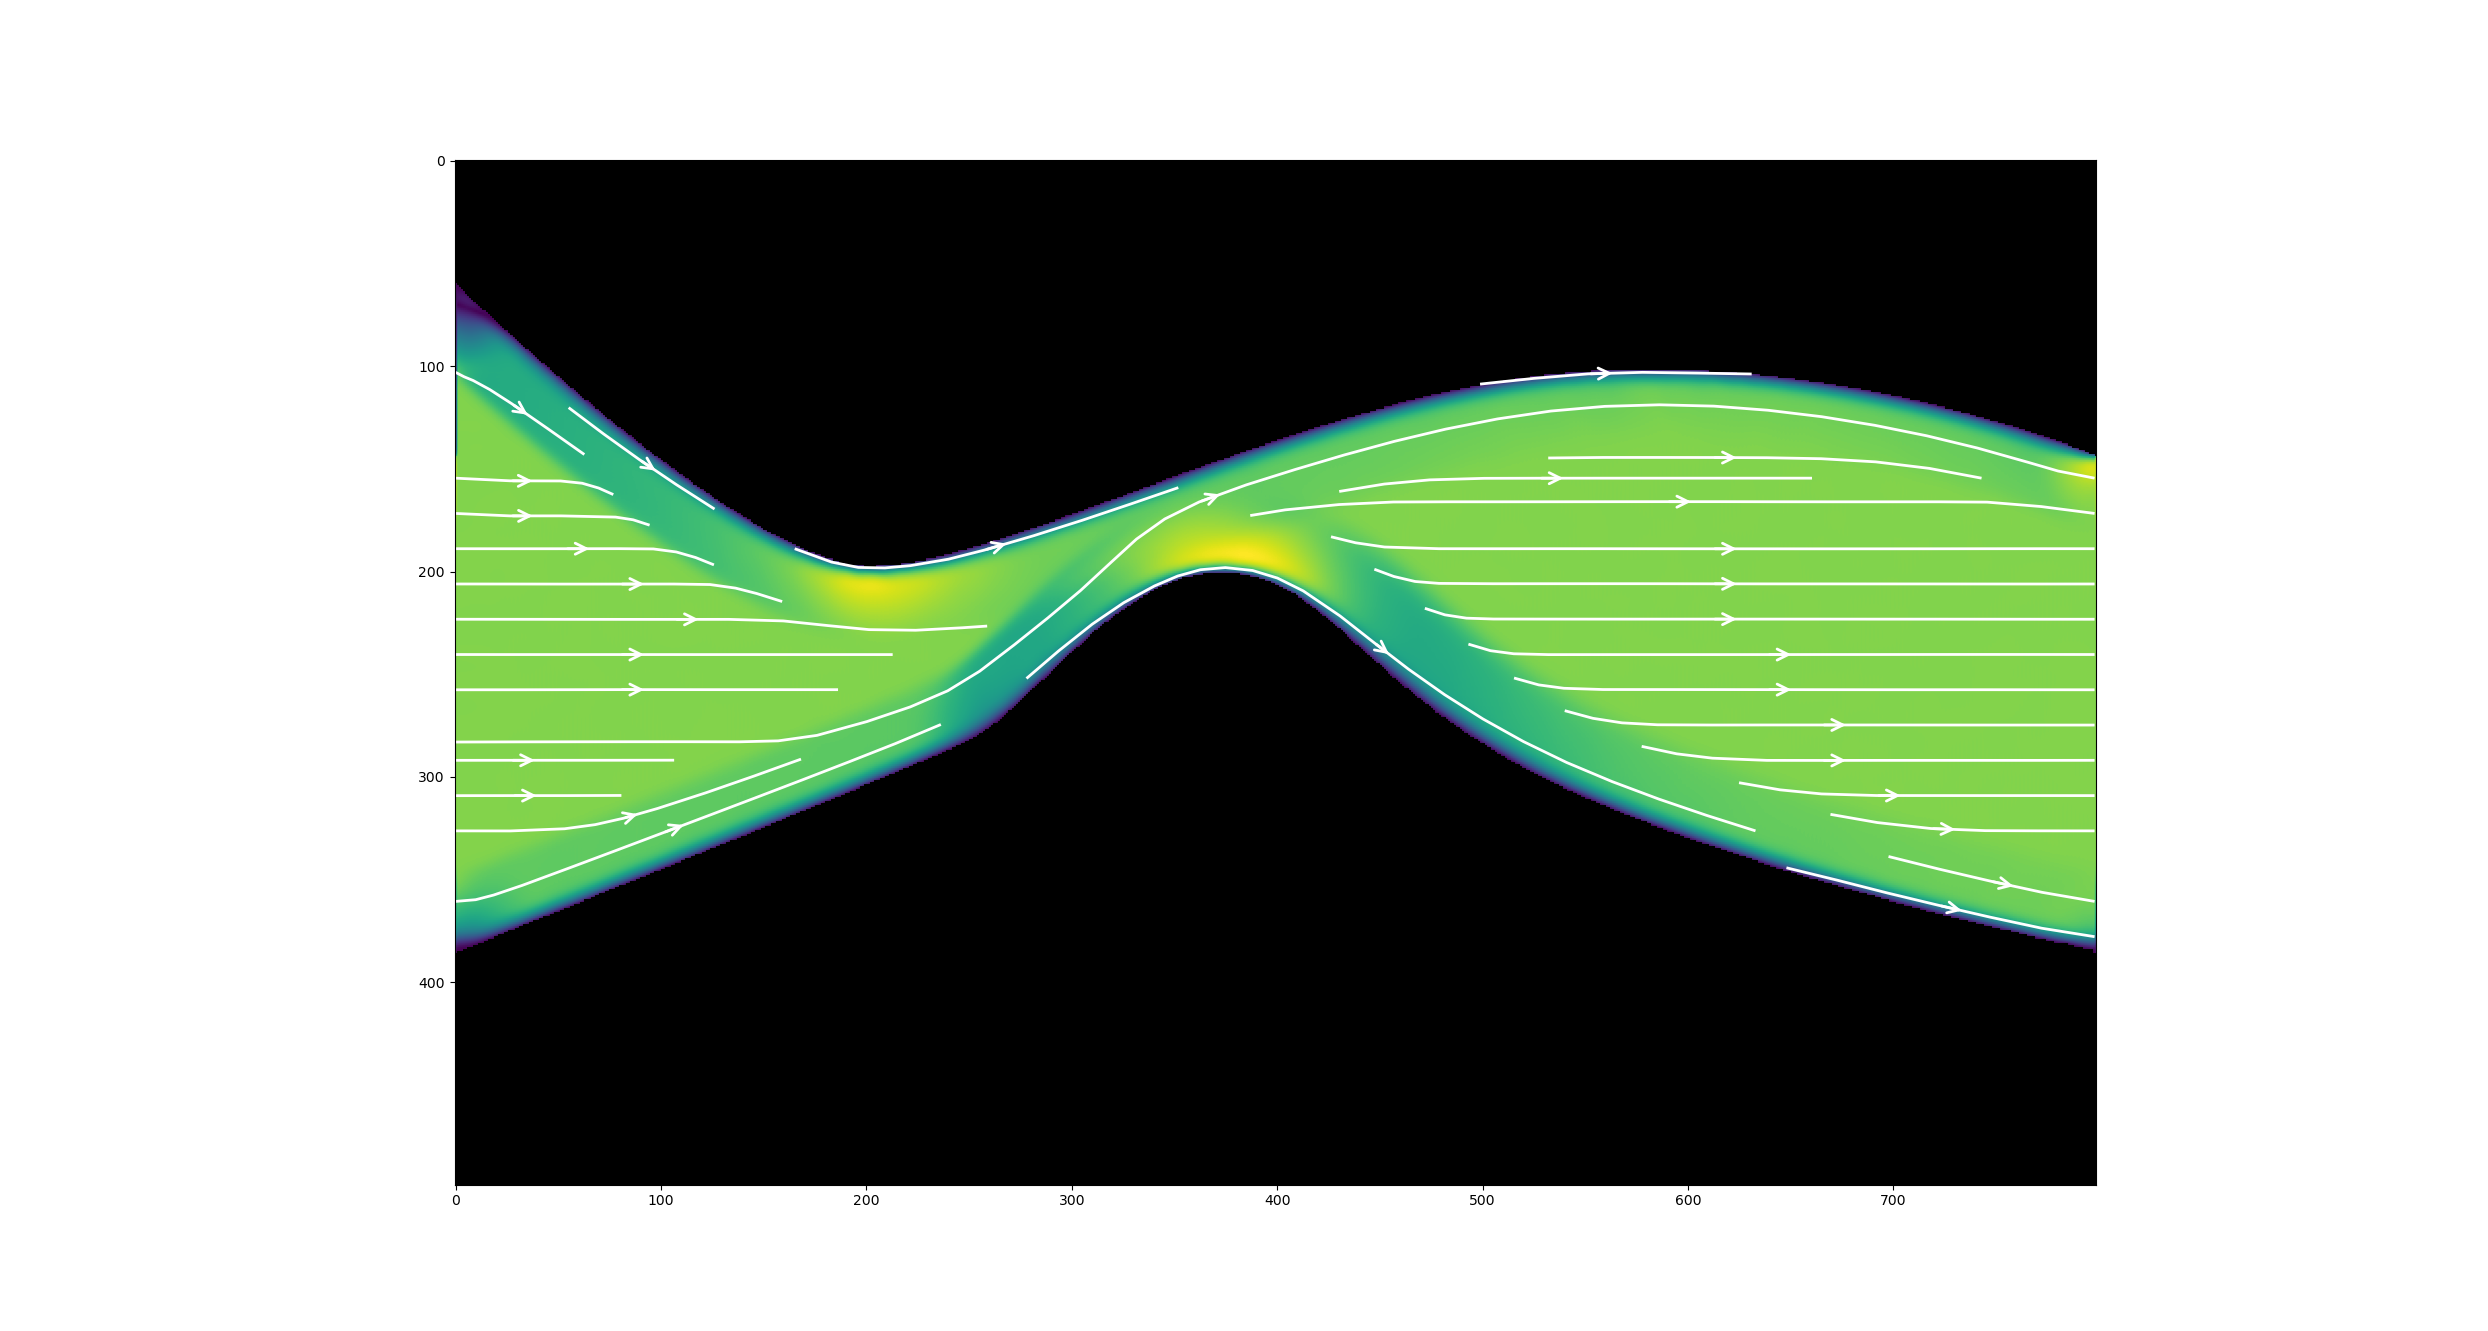
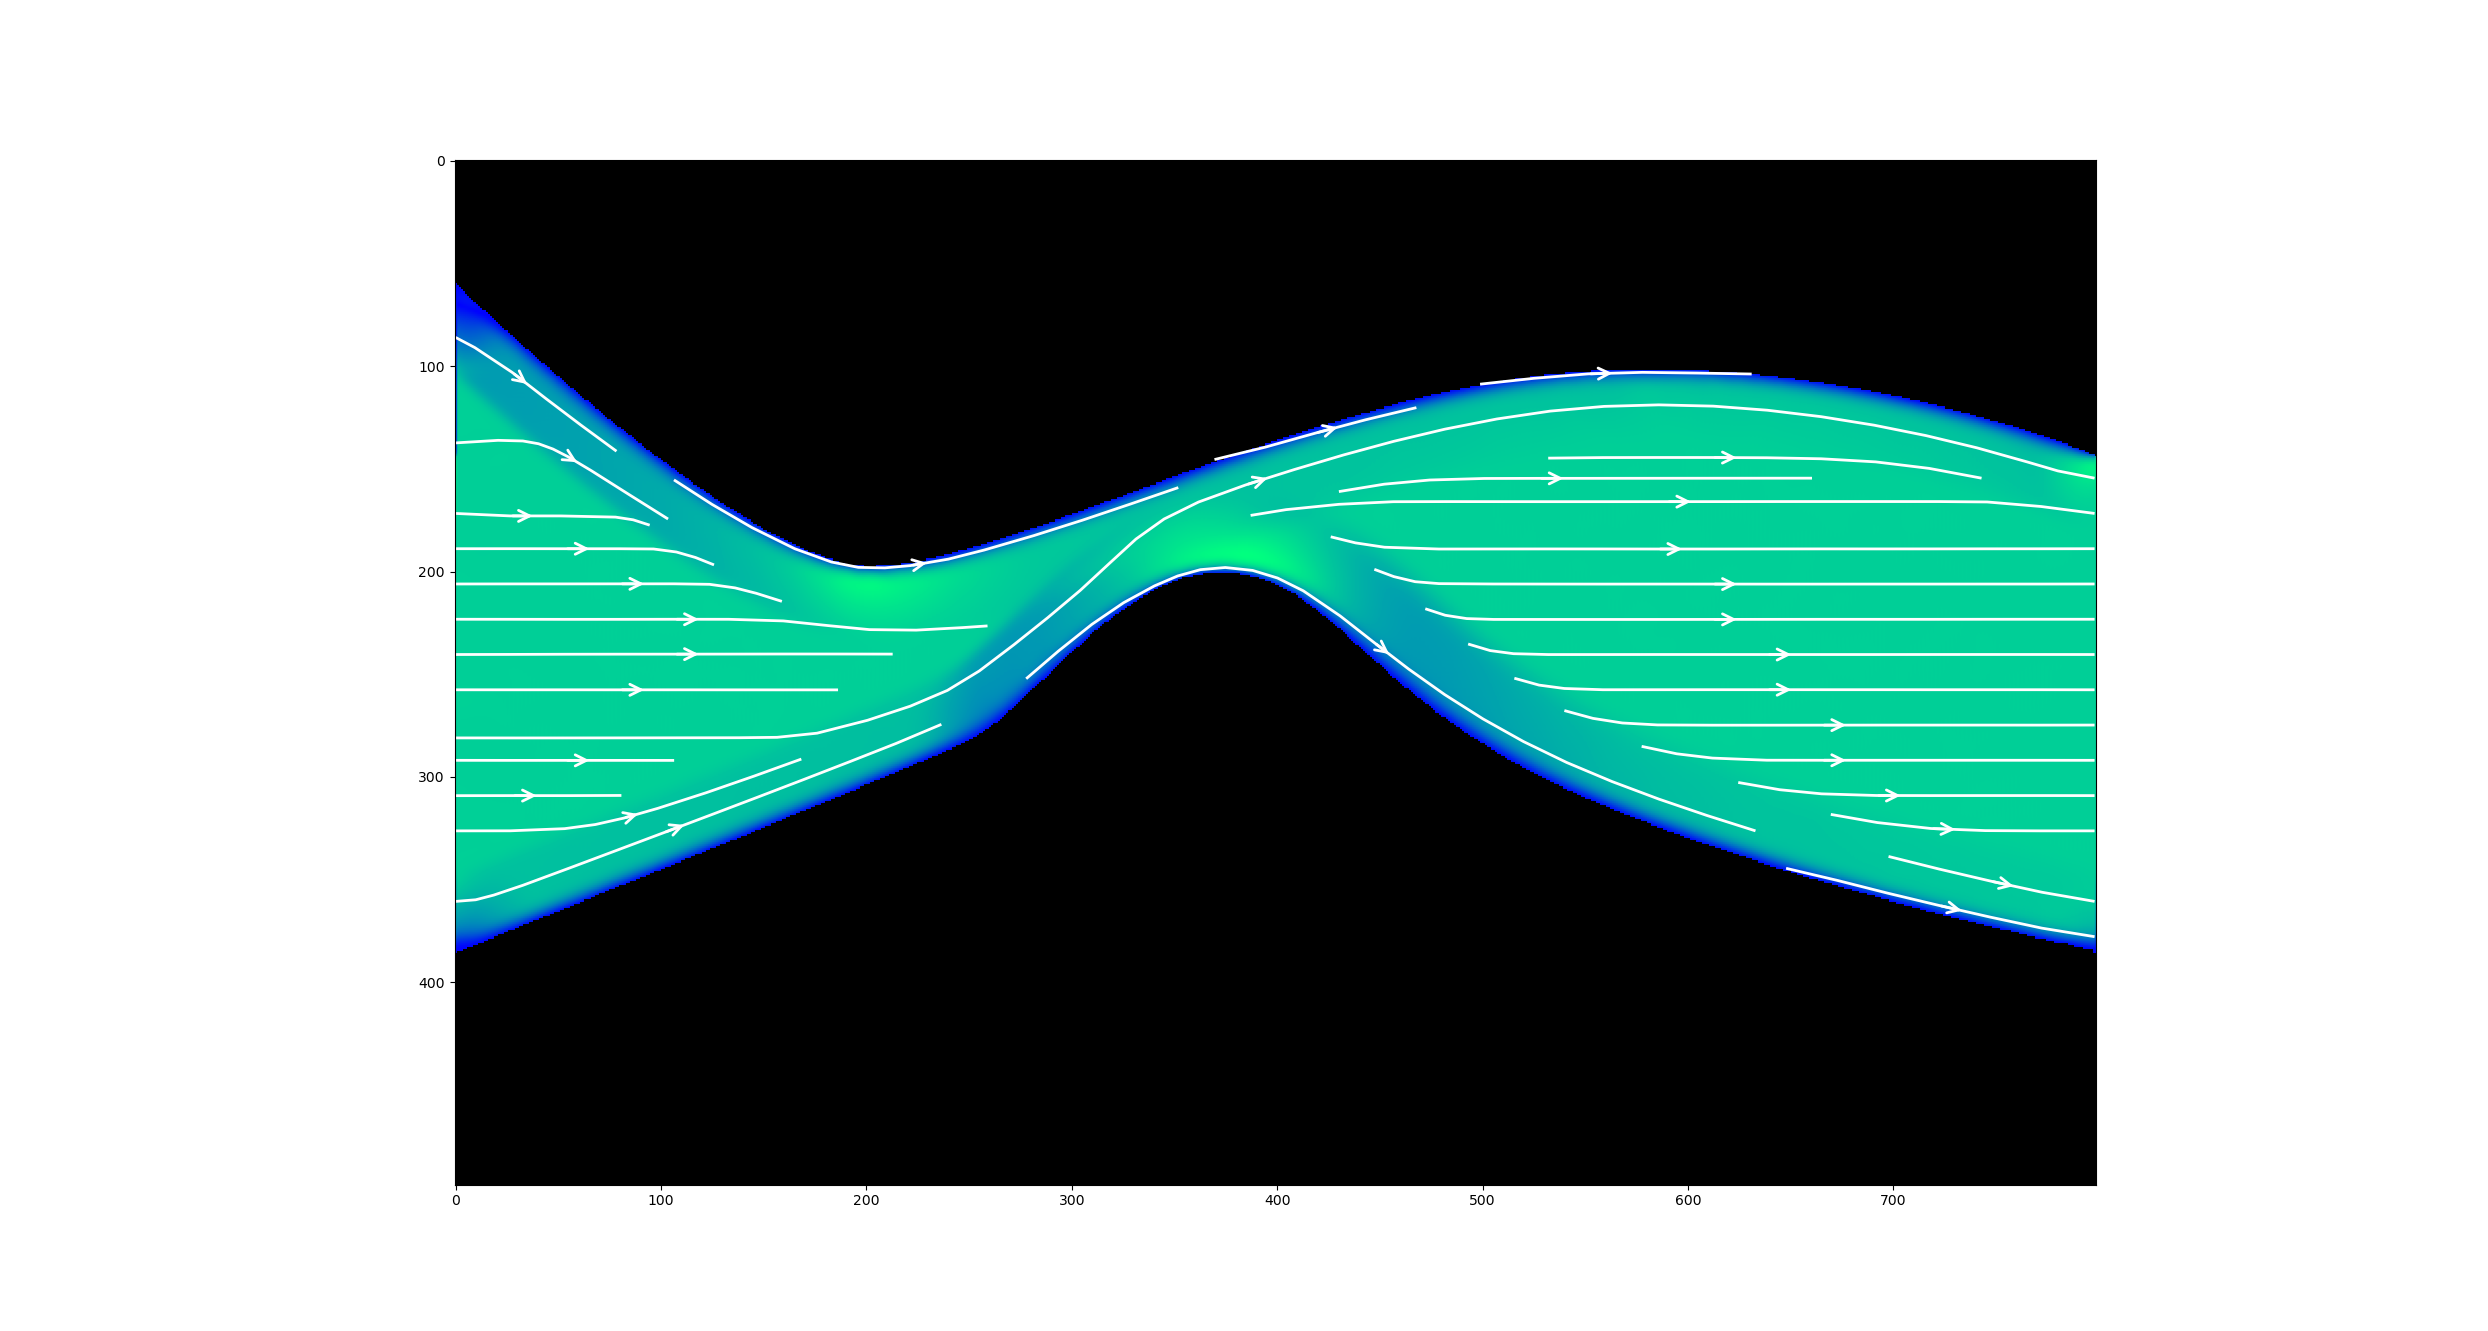
cpp added

Changed region(s): [[0.1857, 0.2156, 0.8666, 0.7085]]

diff --git a/fluid.py b/fluid.py
@@ -32,9 +32,7 @@ def main():
     # conditions initiales
     V = np.ones((Ny,Nx,Nl)) + 0.01*np.random.randn(Ny,Nx,Nl)
 
-    # print(len(V), len(V[0]), len(V[0][0]))
     #on assigne à celle vers la droite (3eme noeud)
-    #V[:,:,3] = 2.3
     V[:,:,3] = 3
 
     obstacle = np.full((Ny,Nx), False) # False : libre, True : obstacle
@@ -58,7 +56,6 @@ def main():
 
 
     # solve
-    #plt.imshow(Cylindre)
     plt.imshow(obstacle_shape, interpolation='nearest', cmap=my_cmap)
     plt.show()
     curl_mean=0
@@ -101,7 +98,6 @@ def main():
 
         V_eq = np.zeros(V.shape)
         for i,cx,cy,w in zip(range(Nl), cxs, cys, weights):
-           # V_eq[:,:,i] = rho*w * ( 1 + 3 * (cx*momentum_x + cy*momentum_y) + 9 * (cx*momentum_x + cy*momentum_y)**2 / 2 - 3 * (momentum_x**2 + momentum_y**2)/2 )
             V_eq[:,:,i] = rho*w * ( 1 + (3 * (cx*momentum_x + cy*momentum_y)) + (4.5 * (cx*momentum_x + cy*momentum_y)**2) - (1.5 * (momentum_x**2 + momentum_y**2)) )
 
         V = V -(V-V_eq)/tau
@@ -126,14 +122,14 @@ def main():
             curl_normalized = curl - curl_mean
             curl_normalized = curl - np.mean(curl_normalized)
             print(np.mean(curl_normalized))
-            plt.imshow(np.sqrt(momentum_x**2 + momentum_y**2))
             print(np.mean(np.sqrt(momentum_x**2 + momentum_y**2)))
             #plt.imshow(curl_normalized, cmap="bwr", interpolation='nearest')
             #plt.imshow(curl_normalized , cmap="bwr", interpolation='nearest')
+            velocity_field = np.sqrt(momentum_x**2 + momentum_y**2)
+            img = plt.imshow(velocity_field, cmap='viridis')
+            colorbar = plt.colorbar(img, label='velocity')
             plt.streamplot(X, Y, momentum_x, momentum_y, density=1, linewidth=2, arrowsize=2, arrowstyle='->', color='white')
             plt.imshow(obstacle_shape, interpolation='nearest', cmap=my_cmap)
-            #plt.savefig("res/res_"+str(time//step)+".png")
-            #plt.savefig("res/0res_airless"+str(time//step)+".png")
 
 
             plt.savefig("res/res_stream"+str(time//step)+".png")
